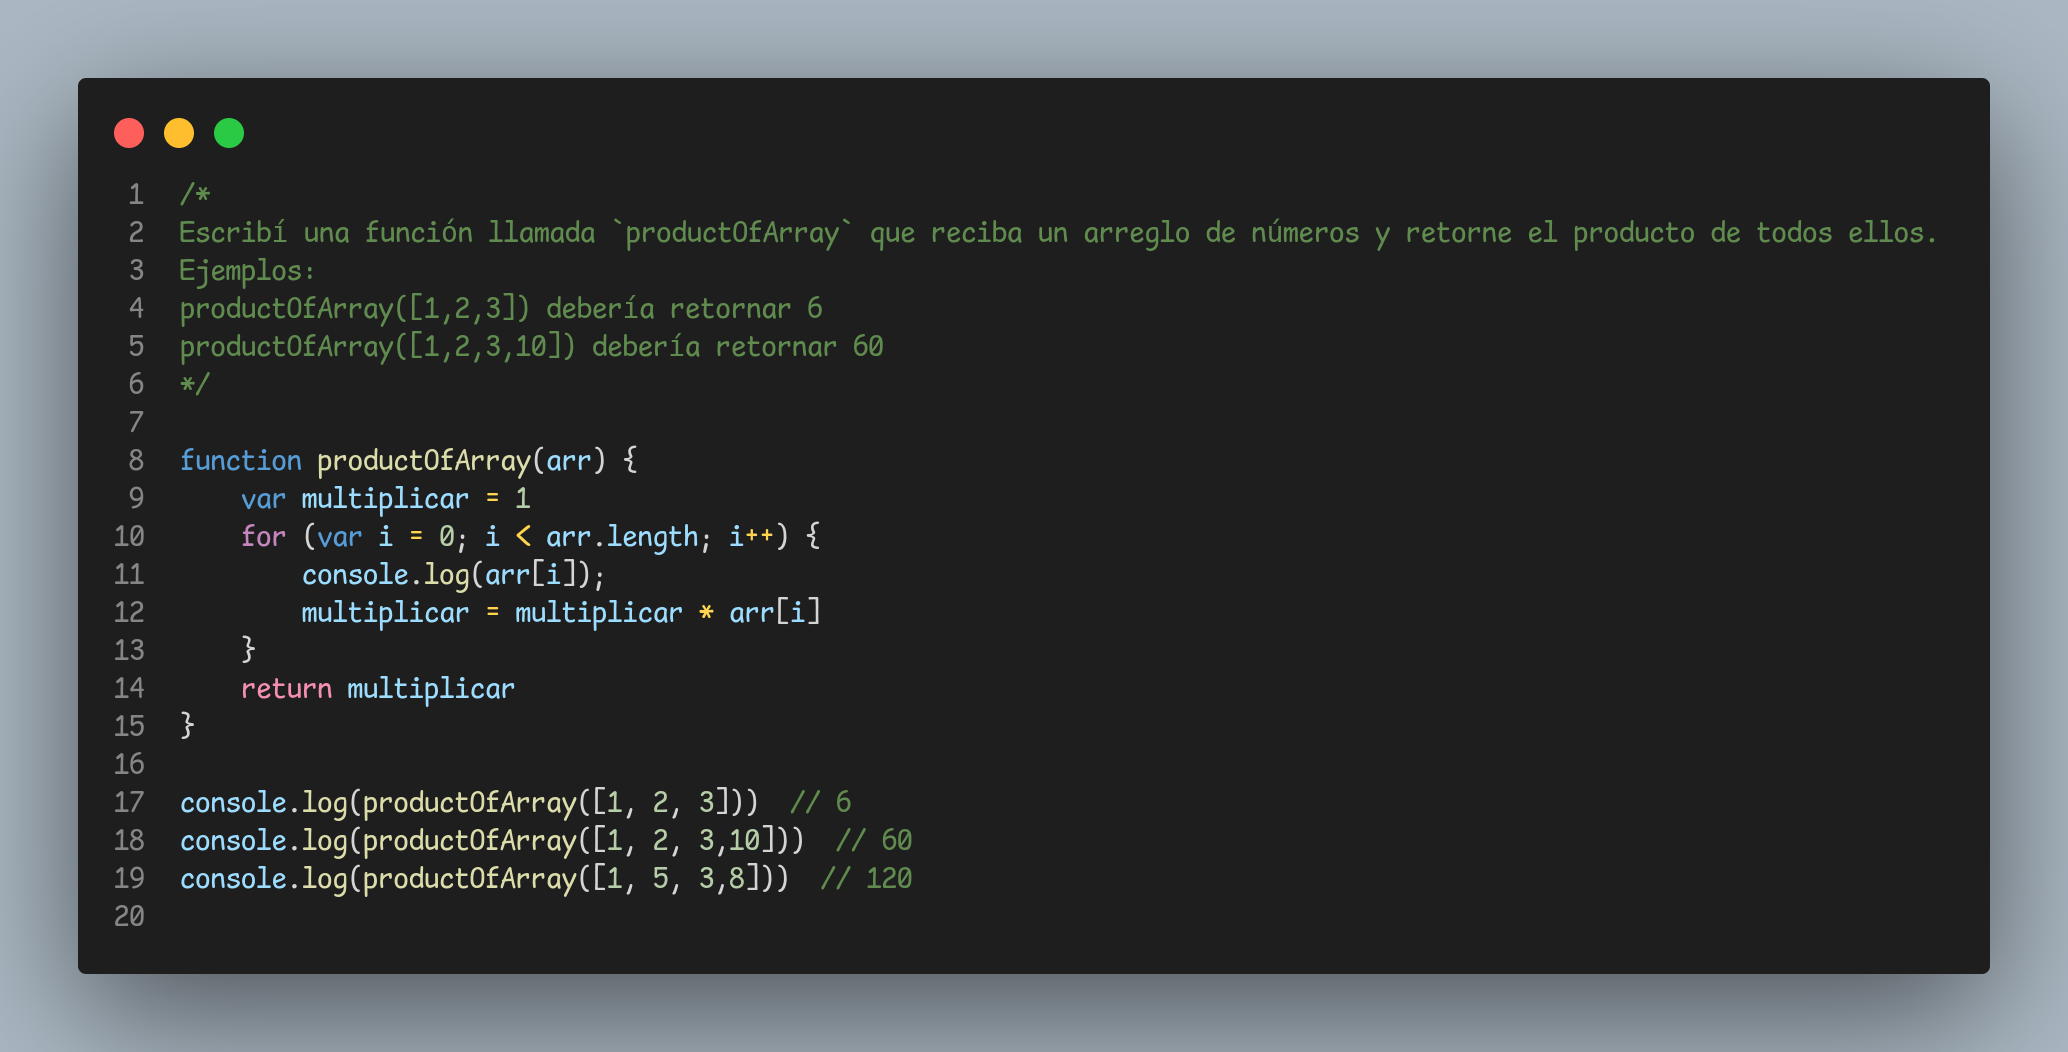
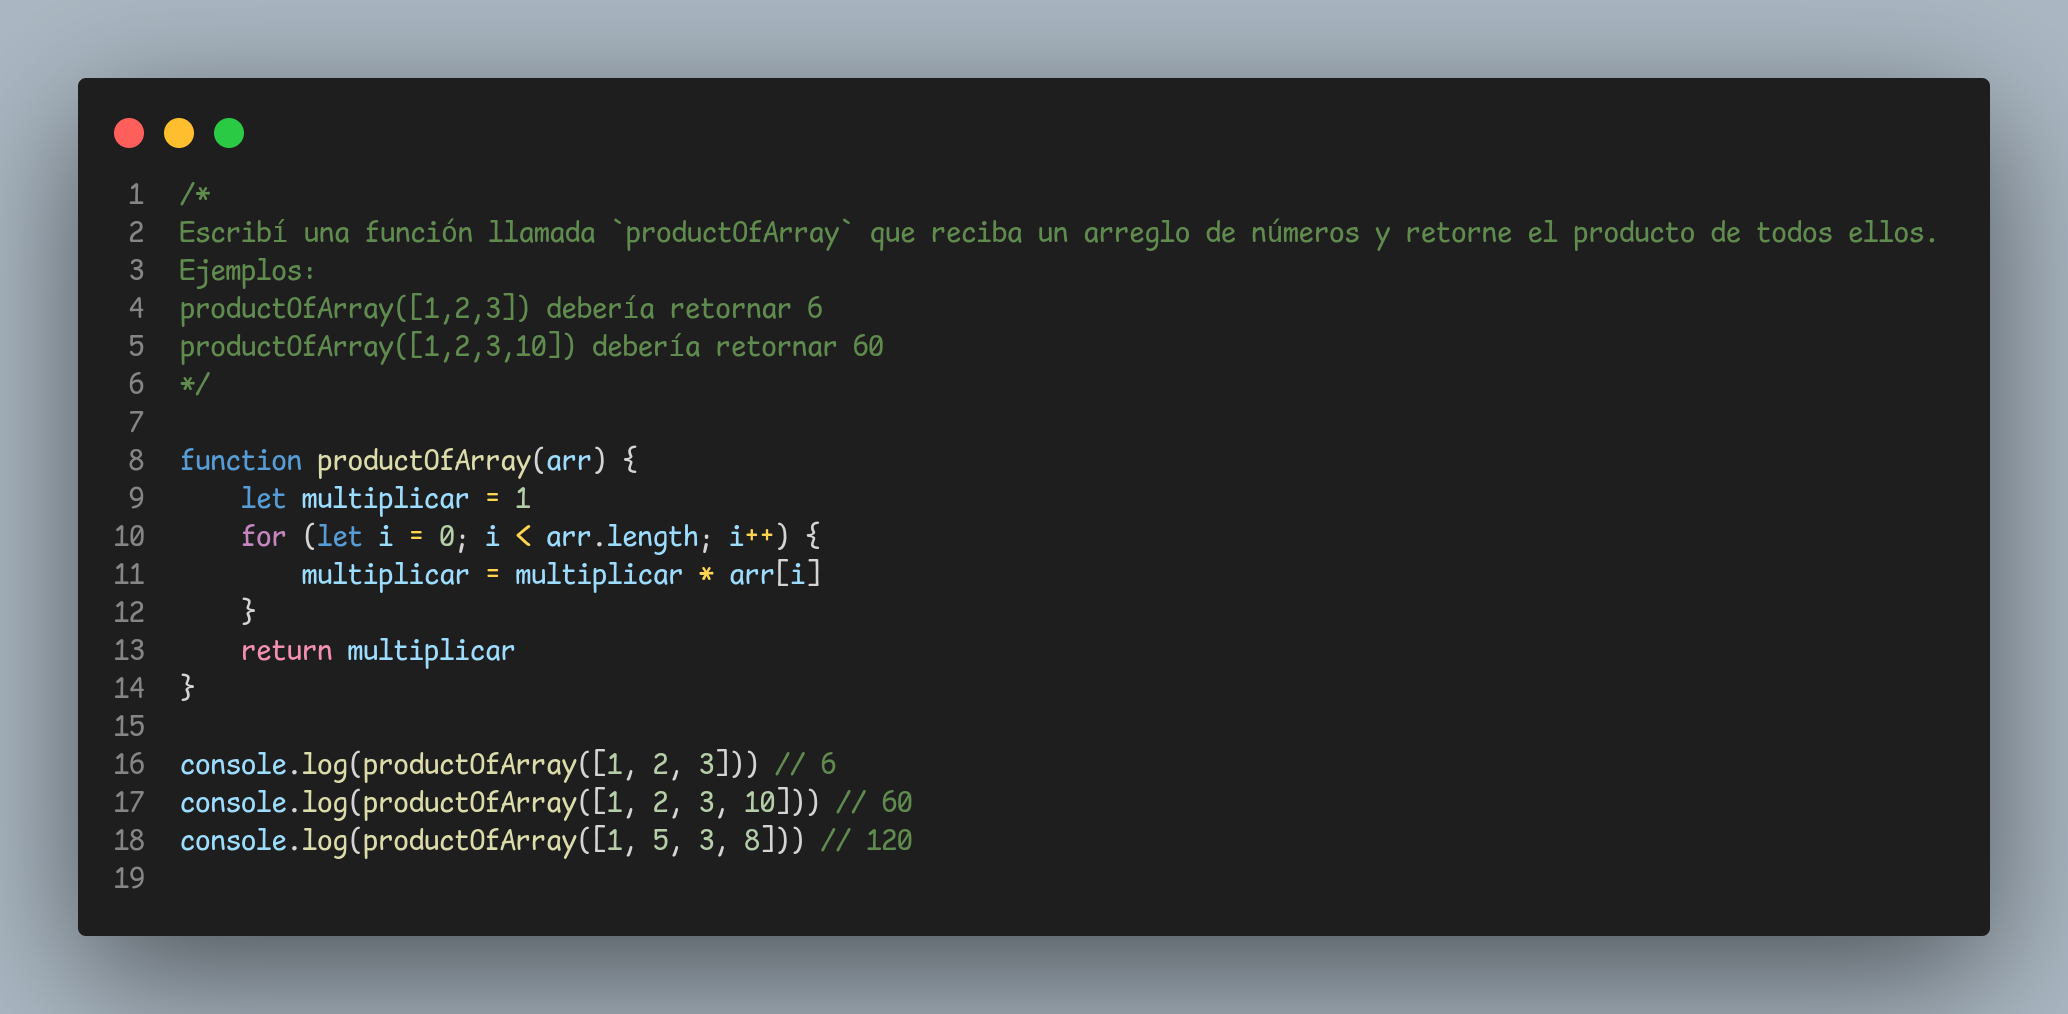
upDate 15/10/2022

diff --git a/03 - JavaScript/JavaScript - Kapelu/13 - Estructuras de Datos/01 - Listas Enlazadas/linkedList.js b/03 - JavaScript/JavaScript - Kapelu/13 - Estructuras de Datos/01 - Listas Enlazadas/linkedList.js
@@ -1,0 +1,72 @@
+function LinkedList() {
+    this.head = null
+}
+
+function Node(valor) {
+    this.value = valor
+    this.next = null
+}
+
+LinkedList.prototype.add = function (valor) {
+	var nuevoNodo = new Node(valor)
+
+	if (!this.head) {this.head = nuevoNodo}
+    else {
+		var tailActual = this.head
+		while (tailActual.next !== null) {
+			tailActual = tailActual.next
+		}
+		tailActual.next = nuevoNodo
+	}
+}
+
+LinkedList.prototype.remove = function () {
+	if (!this.head) {
+		return undefined
+	}
+
+	if (this.head.next === null) {
+		var unicoNodo = this.head
+		this.head = null
+		return unicoNodo.value
+	}
+
+	var nodoActual = this.head.next
+	var nodoPrevious = this.head
+	while (nodoActual.next !== null) {
+		nodoPrevious = nodoActual
+		nodoActual = nodoActual.next
+	}
+	nodoPrevious.next = null
+	return nodoActual.value
+}
+
+LinkedList.prototype.search = function (arg) {
+	var nodoActual = this.head
+
+	if (nodoActual === null) {
+		return null
+	}
+
+	while (nodoActual !== null) {
+		if (typeof arg === 'function') {
+			if (arg(nodoActual.value)) {
+				return nodoActual.value
+			}
+		} else if (nodoActual.value === arg) {
+			return nodoActual.value
+		}
+		nodoActual = nodoActual.next
+	}
+
+	return null
+}
+
+let lista = new LinkedList()
+lista.add(5)
+lista.add(7)
+console.log(lista)
+console.log(lista.search(5));
+lista.remove()
+
+console.log(lista)

diff --git a/03 - JavaScript/JavaScript - Kapelu/12 - Recursividad/06 - producto.js b/03 - JavaScript/JavaScript - Kapelu/12 - Recursividad/06 - producto.js
@@ -6,14 +6,13 @@ productOfArray([1,2,3,10]) debería retornar 60
 */
 
 function productOfArray(arr) {
-	var multiplicar = 1
-	for (var i = 0; i < arr.length; i++) {
-		console.log(arr[i]);
+	let multiplicar = 1
+	for (let i = 0; i < arr.length; i++) {
 		multiplicar = multiplicar * arr[i]
 	}
 	return multiplicar
 }
 
-console.log(productOfArray([1, 2, 3]))  // 6
-console.log(productOfArray([1, 2, 3,10]))  // 60
-console.log(productOfArray([1, 5, 3,8]))  // 120
+console.log(productOfArray([1, 2, 3])) // 6
+console.log(productOfArray([1, 2, 3, 10])) // 60
+console.log(productOfArray([1, 5, 3, 8])) // 120

diff --git a/03 - JavaScript/JavaScript - Kapelu/13 - Estructuras de Datos/01 - Listas Enlazadas/README.md b/03 - JavaScript/JavaScript - Kapelu/13 - Estructuras de Datos/01 - Listas Enlazadas/README.md
@@ -71,31 +71,77 @@ Los siguientes pasos serán agregar a la clase **LinkedList** métodos que nos a
 ***Insertar elementos a la LinkedList***
 
 ```javascript
-
-Lista.prototype.agregar = function (value) {
-    // Si el head es null entonces head sera el nuevo NODO 
-if (this.head == null) this.head = new Nodo(value)
- else { // Sino
-         // creamos un puntero a head
-let refAgregar = this.head
-        // mientras el next del siguiente nodo no sea igual a null
-while (refAgregar.next != null) {
-          //el next del nodo pasa al siguiente next
-refAgregar = refAgregar.next
+function LinkedList() {
+    this.head = null
 }
 
-refAgregar.next = new Nodo(value)
-}
+function Node(valor) {
+    this.value = valor
+    this.next = null
 }
 
-const lista = new Lista()
+LinkedList.prototype.add = function (valor) {
+	var nuevoNodo = new Node(valor)
+
+	if (!this.head) {this.head = nuevoNodo}
+    else {
+		var tailActual = this.head
+		while (tailActual.next !== null) {
+			tailActual = tailActual.next
+		}
+		tailActual.next = nuevoNodo
+	}
+}
+
+LinkedList.prototype.remove = function () {
+	if (!this.head) {
+		return undefined
+	}
+
+	if (this.head.next === null) {
+		var unicoNodo = this.head
+		this.head = null
+		return unicoNodo.value
+	}
+
+	var nodoActual = this.head.next
+	var nodoPrevious = this.head
+	while (nodoActual.next !== null) {
+		nodoPrevious = nodoActual
+		nodoActual = nodoActual.next
+	}
+	nodoPrevious.next = null
+	return nodoActual.value
+}
+
+LinkedList.prototype.search = function (arg) {
+	var nodoActual = this.head
+
+	if (nodoActual === null) {
+		return null
+	}
+
+	while (nodoActual !== null) {
+		if (typeof arg === 'function') {
+			if (arg(nodoActual.value)) {
+				return nodoActual.value
+			}
+		} else if (nodoActual.value === arg) {
+			return nodoActual.value
+		}
+		nodoActual = nodoActual.next
+	}
+
+	return null
+}
+
+let lista = new LinkedList()
+lista.add(5)
+lista.add(7)
 console.log(lista)
+console.log(lista.search(5));
+lista.remove()
 
-lista.agregar("Primero")
-lista.agregar("Segundo")
-lista.agregar("Tercero")
-lista.agregar("Cuarto")
-lista.agregar("Quinto")
 console.log(lista)
 ```
 
